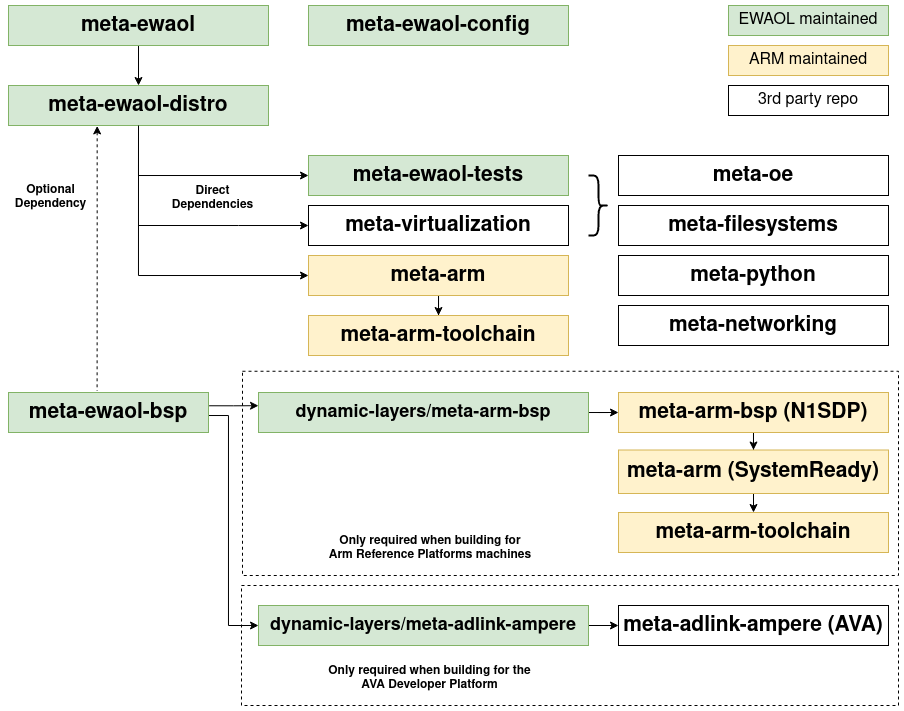
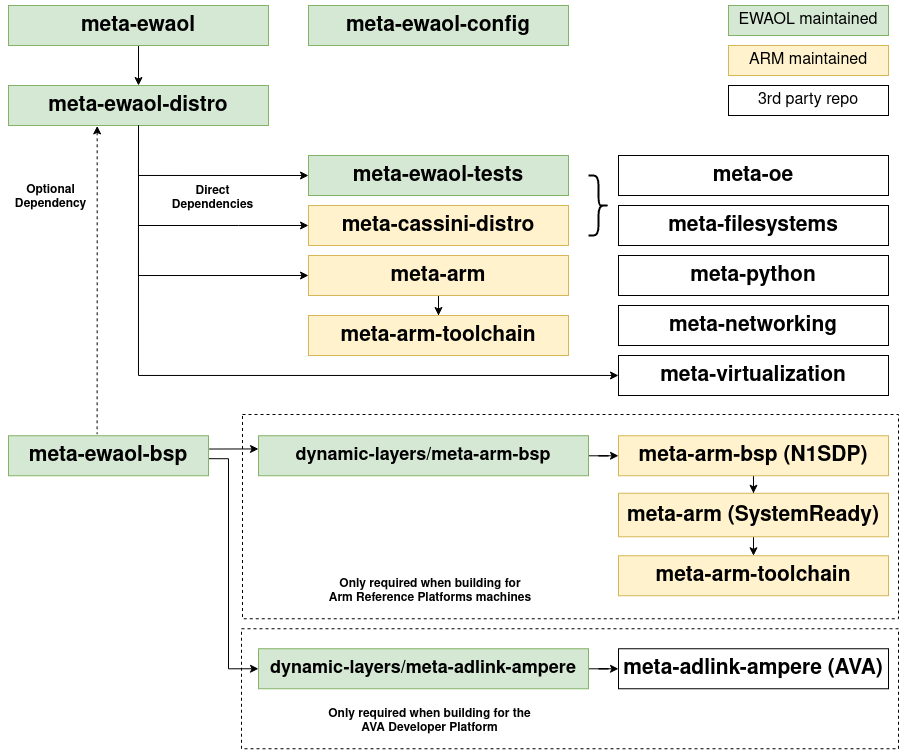
ewaol-[distro,config],doc: Refactor meta-ewaol to extend meta-cassini
The Cassini project (https://gitlab.arm.com/cassini/meta-cassini) provides a
framework for deployment and orchestration of applications (edge runtime) within
containers. This patch refactors the implementation of EWAOL as an extension of
Cassini to avoid duplication of functionality.

Changes included in this patch:

  * Introduce the meta-cassini Yocto layer dependency, with associated kas
    configuration
  * Base the EWAOL core-image (e.g. EWAOL baremetal) on cassini-image
  * Drop any recipes and bbappends which are provided by the upstream
    meta-cassini
  * Update documentation with details of the extra Yocto layer dependency,
    and reference the aspects of the EWAOL Distribution that are extended from
    the Cassini project

Issue-Id: SCM-5182

diff --git a/documentation/variables.py b/documentation/variables.py
@@ -32,10 +32,12 @@ yocto_linux_version = "5.15"
 xen_version = "4.16"
 kas_version = "3.1"
 ewaol_version = "main"
+cassini_version = "main"
 
 n1sdp_link = "https://developer.arm.com/documentation/101489/0000"
 
 general_links = {
+  "link:Project Cassini": "https://www.arm.com/solutions/infrastructure/edge-computing/project-cassini",
   "link:Yocto Project Documentation": f"https://docs.yoctoproject.org/{yocto_doc_version}",
   "link:Yocto Release Process": "https://docs.yoctoproject.org/ref-manual/release-process.html",
   "link:kernel module compilation": f"https://docs.yoctoproject.org/{yocto_doc_version}kernel-dev/common.html#building-out-of-tree-modules-on-the-target",
@@ -88,14 +90,17 @@ layer_definitions = {
   "meta-openembedded branch": f"{yocto_release}",
   "meta-virtualization branch": f"{yocto_release}",
   "meta-arm branch": f"{yocto_release}",
+  "meta-cassini branch": f"{yocto_release}",
   "poky revision": "HEAD",
   "meta-virtualization revision": "HEAD",
   "meta-openembedded revision": "HEAD",
   "meta-arm revision": "HEAD",
   "layer dependency statement": "The layer revisions are related to the EWAOL ``main`` branch.",
+  "meta-cassini revision": cassini_version,
 }
 
 other_definitions = {
+  "meta-cassini documentation": f"https://cassini.docs.arm.com/en/{cassini_version}/introduction.html",
   "kas version": f"{kas_version}",
   "virtualization customization yaml":
       """

diff --git a/documentation/introduction.rst b/documentation/introduction.rst
@@ -10,11 +10,14 @@ Introduction
 The Edge Workload Abstraction and Orchestration Layer (EWAOL) project provides
 users with a standards-based framework using containers for the deployment and
 orchestration of applications on edge platforms. EWAOL is provided as the
-``meta-ewaol`` repository, which includes metadata for building EWAOL
-distribution images via the Yocto Project.
+``meta-ewaol`` repository, which includes metadata for building the EWAOL
+software stack as a custom Linux distribution via the Yocto Project.
 
-Under this approach, a full software stack is divided into the following
-software layers:
+The EWAOL distribution is an extension of the |Project Cassini|_ distribution as
+provided by the upstream ``meta-cassini`` Yocto layer repository, with
+associated documentation at: |meta-cassini documentation|.
+
+The EWAOL software stack is divided into the following software layers:
 
   * **Application workloads**:
 
@@ -31,21 +34,24 @@ software layers:
     functionalities and facilitate deployment and orchestration of user
     application workloads. These tools and services include the Docker container
     engine, the K3s container orchestration framework, and Xen virtualization
-    management software, together with their run-time dependencies. In addition,
-    EWAOL provides supporting packages such as those which enable run-time
-    validation tests or software development capabilities on the target platform.
+    management software, together with their run-time dependencies. These are
+    provided by and adapted from the ``meta-virtualization`` Yocto layer,
+    although the integration of the Docker container engine and the K3s
+    container orchestration framework is inherited as part of the Cassini
+    distribution. In addition, EWAOL provides supporting packages such as those
+    which enable run-time validation tests or software development capabilities
+    on the target platform.
 
   * **System software**:
 
     System software specific to the target platform, composed of firmware,
     bootloader and the operating system, as well as the Xen type-1 hypervisor
     when building an EWAOL distribution with hardware virtualization support.
-    Note that this system software is not directly developed as part of the
-    EWAOL project, but is instead integrated from the meta-arm, meta-arm-bsp,
-    and meta-virtualization Yocto layers.
+    This system software is integrated from the ``meta-arm``, ``meta-arm-bsp``,
+    and ``meta-virtualization`` Yocto layers.
 
-EWAOL is the reference implementation for SOAFEE (Scalable Open Architecture
-For Embedded Edge), the Arm lead industry initiative for extending cloud-native
+EWAOL is the reference implementation for SOAFEE (Scalable Open Architecture For
+Embedded Edge), the Arm lead industry initiative for extending cloud-native
 software development to automotive, with a special focus on real-time and
 functional safety. For more details, please see `<https://soafee.io>`_.
 
@@ -133,8 +139,6 @@ Features Overview
 EWAOL includes the following major features:
 
   * Support for two architectural use-cases (Baremetal, and Virtualization).
-  * Container engine and runtime with Docker and runc-opencontainers.
-  * Container workload orchestration with the K3s Kubernetes distribution.
   * Hardware virtualization support with the Xen type-1 hypervisor.
   * On-target development support with optionally included Software Development
     Kit.
@@ -142,12 +146,19 @@ EWAOL includes the following major features:
     build-time kernel configuration checks.
   * Tools provided for quality assurance and build support.
 
-Other features of EWAOL include:
+By extending the following distributions, EWAOL also inherits and adapts
+additional features:
 
-  * The features provided by the ``poky.conf`` distribution, which EWAOL
-    extends.
-  * Systemd used as the init system.
-  * RPM used as the package management system.
+  * Poky distribution (``poky.conf``) from the ``meta-poky`` Yocto layer
+
+   * Systemd used as the init system.
+   * RPM used as the package management system.
+
+  * Cassini distribution (``cassini.conf``) from the
+    ``meta-cassini-distro`` Yocto layer
+
+   * Container engine and runtime with Docker and runc-opencontainers.
+   * Container workload orchestration with the K3s Kubernetes distribution.
 
 **********************
 Documentation Overview

diff --git a/documentation/manual/architectures.rst b/documentation/manual/architectures.rst
@@ -25,8 +25,8 @@ Baremetal Architecture
 |
 
 An EWAOL baremetal distribution image (``ewaol-baremetal-image``) is enabled if
-``ewaol-baremetal`` is included in ``DISTRO_FEATURES``. The image includes the
-following image features by default:
+``ewaol-baremetal`` is included in ``DISTRO_FEATURES``. The image inherits
+the following image features from ``meta-cassini-distro``, by default:
 
   * Container engine and runtime with Docker and runc-opencontainers
   * Container workload orchestration with the K3s Kubernetes distribution
@@ -57,8 +57,10 @@ enabled if ``ewaol-virtualization`` is included in ``DISTRO_FEATURES``. The
 image includes the following image features by default:
 
   * Hardware virtualization support with the Xen type-1 hypervisor
-  * Container engine and runtime with Docker and runc-opencontainers
-  * Container workload orchestration with the K3s Kubernetes distribution
+  * The following image features are inherited from ``meta-cassini-distro``:
+
+    * Container engine and runtime with Docker and runc-opencontainers
+    * Container workload orchestration with the K3s Kubernetes distribution
 
 On an EWAOL virtualization distribution image, the software stack includes the
 Xen type-1 hypervisor and provides a Control VM (Dom0) and a single bundled

diff --git a/documentation/changelog.rst b/documentation/changelog.rst
@@ -17,6 +17,8 @@ New Features
 * Added support for building and running EWAOL on the AVA Developer Platform
 * Added capability for Xen PCI device passthrough, currently supported for Guest
   VMs running on the AVA Developer Platform
+* Added inherited features from EWAOL's extension of the Cassini distribution,
+  which forms a new Yocto layer dependency
 
 Changed
 =======
@@ -26,6 +28,8 @@ Distro:
   * Updated rootfs size management for EWAOL virtualization distribution images,
     to add build-time functionality that automatically configures the size of
     the Control VM rootfs sufficient to support all Guest VM root filesystems
+  * Refactored the EWAOL distribution as an extension of the Cassini
+    distribution provided by Project Cassini.
 
 Tests:
 

diff --git a/documentation/manual/sdk.rst b/documentation/manual/sdk.rst
@@ -16,8 +16,10 @@ on the target, such as:
   * Tracing
   * Runtime package management
 
-The precise list of packages and image features provided as part of the EWAOL
-SDK can be found in ``meta-ewaol-distro/conf/distro/include/ewaol-sdk.inc``.
+The ``ewaol-sdk`` distro feature inherits ``cassini-sdk`` distro feature from
+Cassini distro. The precise list of packages and image features provided as
+part of the EWAOL SDK can be found in
+``layers/meta-cassini/meta-cassini-distro/conf/distro/include/cassini-sdk.inc``.
 
 The Yocto project provides guidance for some of these common development tasks,
 for example |kernel module compilation|_, |profiling and tracing|_, and

diff --git a/README.md b/README.md
@@ -13,7 +13,10 @@ functional safety. For more details on SOAFEE, please see <http://soafee.io>.
 
 The Edge Workload Abstraction and Orchestration Layer (EWAOL) project provides
 users with a standards based framework using containers for the deployment and
-orchestration of applications on edge platforms.
+orchestration of applications on edge platforms. The EWAOL software stack is
+provided as a custom Linux distribution via the Yocto Project, and extends core
+functionality provided by the Cassini Project (see
+<https://www.arm.com/solutions/infrastructure/edge-computing/project-cassini>).
 
 ## EWAOL Documentation
 

diff --git a/documentation/manual/yocto_layers.rst b/documentation/manual/yocto_layers.rst
@@ -75,6 +75,11 @@ EWAOL depends on the following layer dependency sources:
     branch: |meta-virtualization branch|
     revision: |meta-virtualization revision|
 
+    URL: https://gitlab.arm.com/cassini/meta-cassini
+    layer: meta-cassini-distro
+    branch: |meta-cassini branch|
+    revision: |meta-cassini revision|
+
 Additional layer dependency sources may be conditionally required, depending on
 the specific EWAOL distribution image being built.
 

diff --git a/documentation/manual/hardening.rst b/documentation/manual/hardening.rst
@@ -8,7 +8,8 @@ Security Hardening
 ##################
 
 EWAOL distribution images can be hardened to reduce potential sources or attack
-vectors of security vulnerabilities. EWAOL security hardening modifies the
+vectors of security vulnerabilities, by enabling the security features
+implemented by Project Cassini. This security hardening modifies the
 distribution to:
 
   * Force password update for each user account after first logging in.
